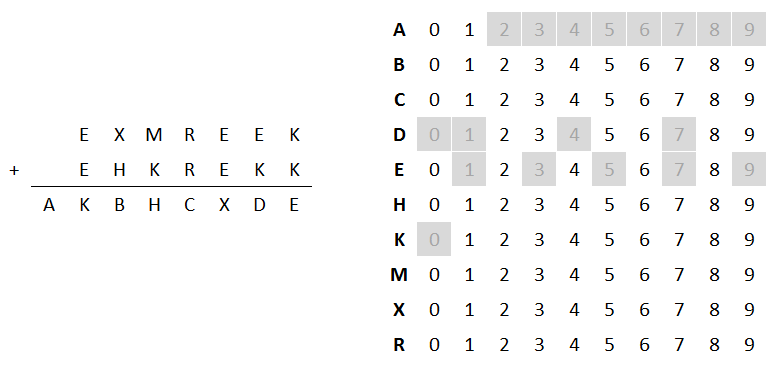
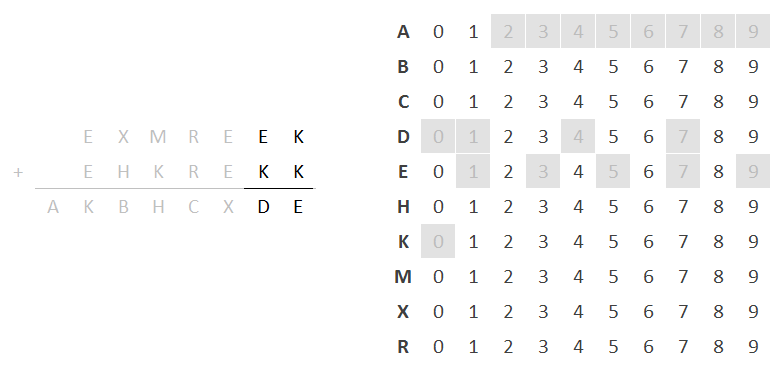
step5

diff --git a/2018-06-08/README.md b/2018-06-08/README.md
@@ -72,11 +72,9 @@ There are 10 distinct symbols:
 
 E H K M R X A B C D
 
-Since all 10 digits appear in the equation, this means that each distinct symbol's digit is distinct (i.e. E and H can't stand for the same number).
-
 Not shown in the original problem are each column's carry digit, which are each either 0 or 1.
 
-A a special case in that it is effectively the carry digit for E + E. S. Therefore, A must be either 0 or 1.
+A is a special case in that it is effectively the carry digit for E + E. S. Therefore, A must be either 0 or 1.
 
 ![Message](step2.PNG)
 
@@ -84,7 +82,7 @@ Since all symbols are distinct, K cannot be 0, because that would cause E to als
 
 ![Message](step3.PNG)
 
-Since 2 * any integer must be even, E cannot be odd.
+Since 2 * any integer must be even, and the answer's rightmost column cannot have had a carry digit added to it, E cannot be odd.
 
 ![Message](step4.PNG)
 
